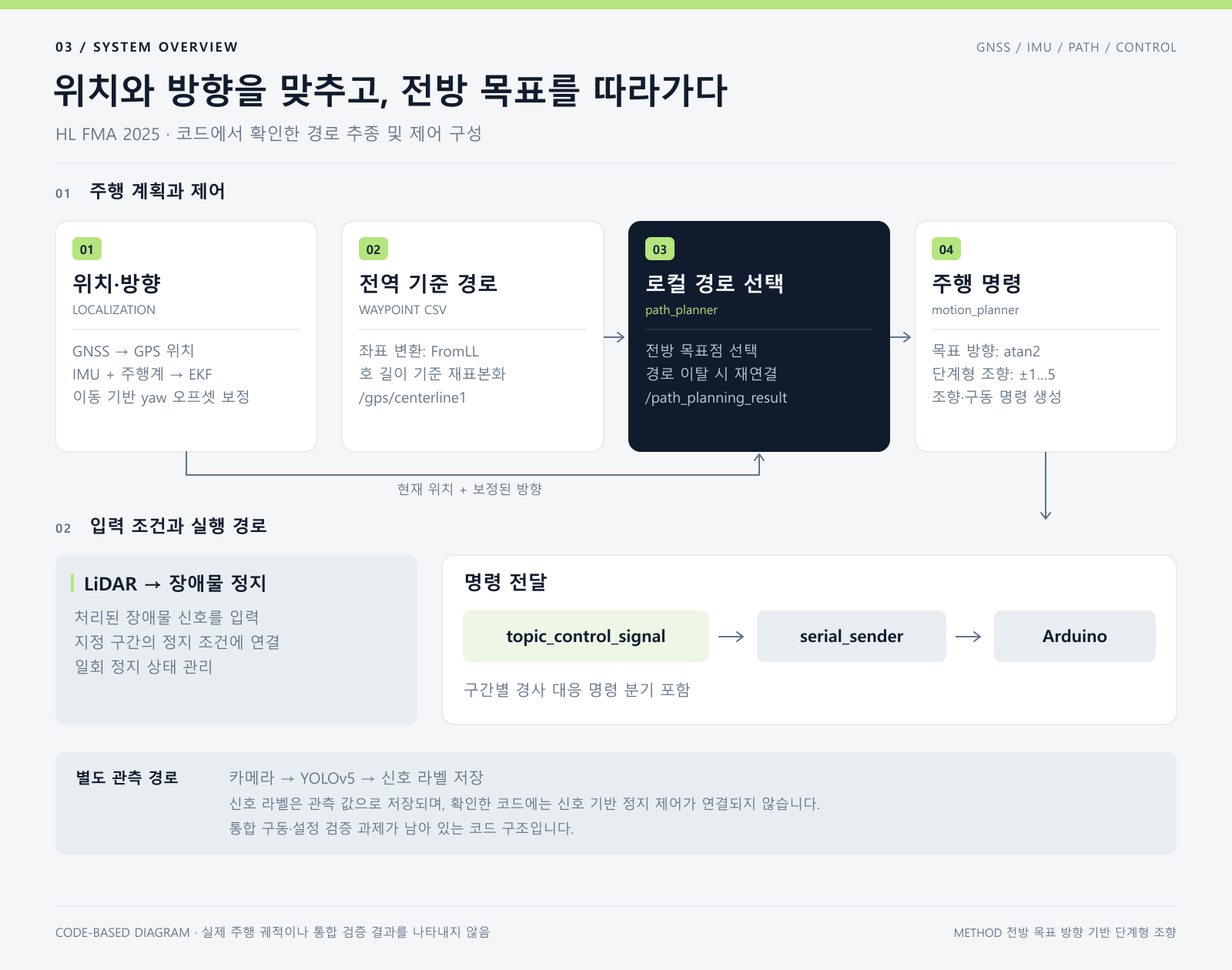
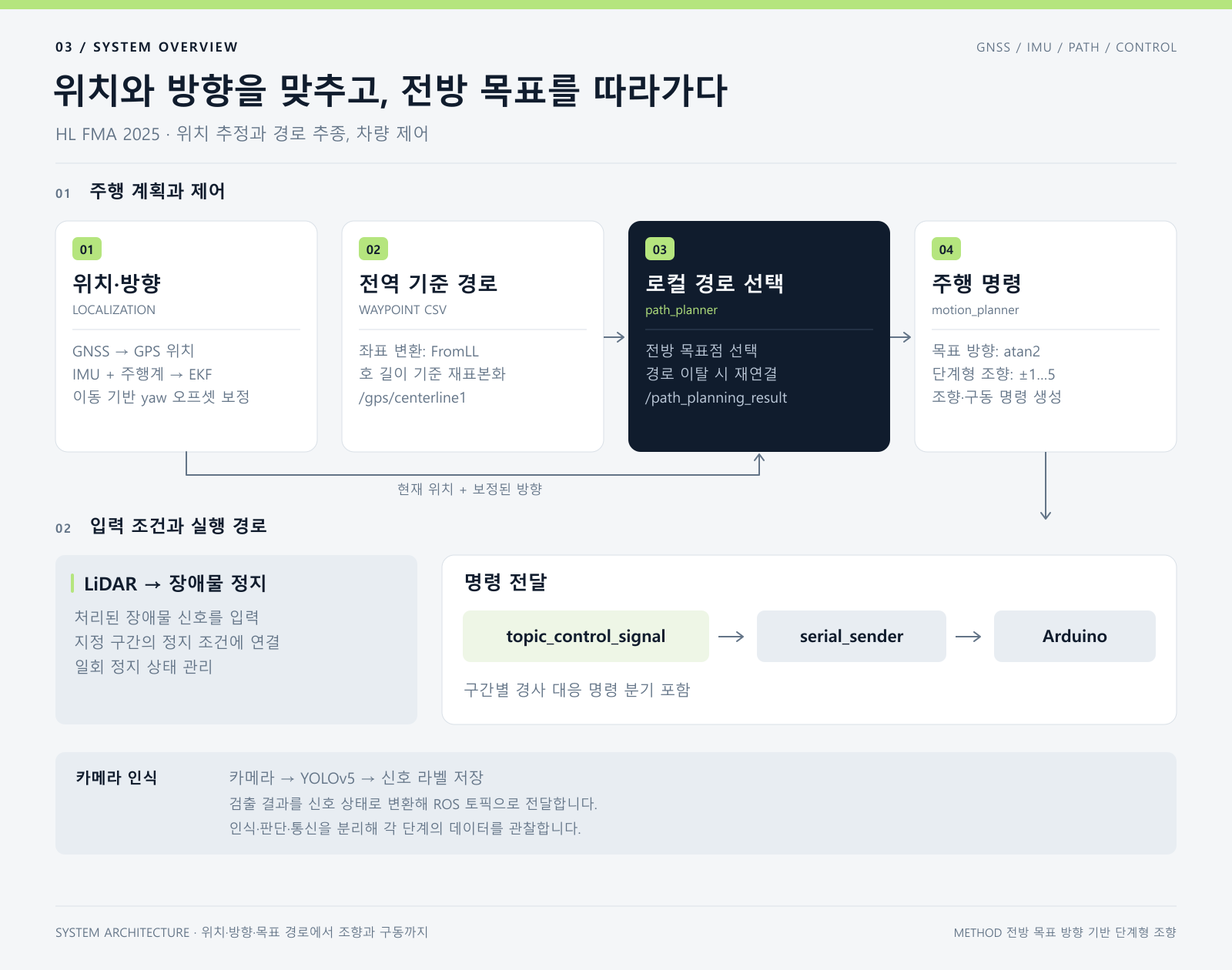
docs: focus portfolio copy and visuals on implementation and achievements

diff --git a/docs/development-notes.md b/docs/development-notes.md
@@ -1,18 +1,18 @@
 # 개발 과정과 문제 해결
 
-[프로젝트 소개](../README.md) · [공개 소스 안내](code-map.md) · [구현 버전과 검증 범위](technical-notes.md)
+[프로젝트 소개](../README.md) · [핵심 코드 안내](code-map.md) · [구현 구성과 설정](technical-notes.md)
 
-이 문서는 실차 개발 경험을 정리한 상세 기록과 공개 소스를 대조해 작성했습니다. 공개 링크로 확인할 수 있는 구현과 보관본에 설명된 확장을 구분합니다.
+차량 개조와 센서 통합을 시작으로, 초기 방향 보정·경로 추종·미션 처리·하위 제어를 연결한 개발 과정입니다.
 
 ## 1. 초기 방향 문제 · 1 m 이동을 초기화 절차로 만들기
 
-### 위치가 맞아도 방향이 어긋날 수 있었다
+### 위치와 방향의 기준을 함께 맞추기
 
-유아용 전동차를 개조하고 Ubuntu 노트북과 센서를 연결한 뒤, 지도 경로와 차량 방향의 기준을 통합하는 과정에서 초기 방향 문제가 있었습니다. 차량 기준 목표 경로를 만들려면 현재 위치뿐 아니라 지도에서 차량이 어느 방향을 향하는지도 필요합니다. yaw에 고정된 오차가 남으면 경로점의 상대 방향이 달라져 조향 판단에 영향을 줍니다.
+유아용 전동차를 개조하고 Ubuntu 노트북과 센서를 연결한 뒤, 지도 경로와 차량 방향의 기준을 통합했습니다. 차량 기준 목표 경로를 만들려면 현재 위치와 지도에서 차량이 향하는 방향이 모두 필요합니다. yaw에 고정된 오차가 남으면 경로점의 상대 방향이 달라져 조향 판단에 영향을 주었습니다.
 
-### 실제 이동을 기준으로 방향 오프셋을 계산했다
+### 실제 이동으로 방향 오프셋 계산
 
-경로계획기는 GPS 위치와 경로가 준비되면 시작 위치를 저장합니다. 시작점과 현재 위치의 직선거리가 1 m 미만인 동안 `(0, 0) → (0, 1)`의 차량 정면 경로를 내보냅니다. 기준을 넘으면 그때의 GPS 변위로 이동 방향을 구하고, EKF 방향과의 차이를 한 번 저장합니다.
+GPS 위치와 경로가 준비되면 경로계획기가 시작 위치를 저장합니다. 시작점과 현재 GPS 위치의 직선 변위가 1 m 미만인 동안 `(0, 0) → (0, 1)`의 차량 정면 경로를 내보냅니다. 기준을 넘으면 이동벡터로 방향을 구하고, EKF 방향과의 차이를 한 번 저장합니다.
 
 ```text
 이동 방향     = atan2(y₁ − y₀, x₁ − x₀)
@@ -20,84 +20,64 @@ yaw 오프셋    = 이동 방향 − 보정 시점의 EKF yaw
 이후 보정 yaw = 현재 EKF yaw + 고정한 오프셋
 ```
 
-공개 코드의 `_imu_yaw`는 `/odometry/filtered`의 quaternion에서 읽은 값입니다. 보정 대상은 **IMU 정보를 반영한 EKF 방향을 경로계획에 사용하는 기준**입니다. 원시 IMU 메시지나 전체 TF를 수정하는 절차는 아닙니다.
+공개 코드의 `_imu_yaw`는 `/odometry/filtered`의 quaternion에서 읽은 값입니다. 이 EKF 방향에 오프셋을 적용해, 실제 이동 방향을 기준으로 경로를 차량 좌표계로 변환했습니다.
 
-[공개 코드의 초기화 분기](https://github.com/Khusla/HLFMA_2025/blob/48406564072bd34c5d223b7e9fb8b05a2381fa11/src/decision_making_pkg/decision_making_pkg/path_planner_node.py#L219)
+[초기 방향 보정 코드](https://github.com/Khusla/HLFMA_2025/blob/48406564072bd34c5d223b7e9fb8b05a2381fa11/src/decision_making_pkg/decision_making_pkg/path_planner_node.py#L219)
 
-### 보관본에서는 초기화 상태를 구동 계층까지 전달했다
+### 초기화 상태를 구동 계층까지 전달
 
-상세 개발 기록의 실차 보관본에는 `correctioning` 상태를 경로 메시지로 전달하는 구현이 설명되어 있습니다. 초기 직진 중에는 구동 명령을 기본값 120에서 80으로 낮추고, 방향 정렬이 끝나면 일반 추종으로 전환하는 구성입니다. **80과 120은 구동 명령값이며 실측 속도가 아닙니다.** 공개 메시지 정의에도 상태 필드는 있지만, 공개 경로·동작계획 노드에서는 이 값을 보정 상태에 맞춰 전달하고 구동값에 적용하는 분기가 확인되지 않습니다.
+실차 개발 보관본에서는 `correctioning` 상태를 경로 메시지로 전달하도록 확장했습니다. 초기 직진 중에는 구동 명령을 기본값 120에서 80으로 낮추고, 방향 정렬이 끝나면 일반 추종으로 전환합니다. 방향 계산과 차량 동작을 같은 초기화 상태로 연결한 구성입니다.
 
-기록에는 노드 시작 후 일정 시간이 지나면 당시 yaw를 0 기준으로 삼는 다른 구현도 남아 있습니다. 이동벡터 방식은 지도에서 실제로 움직인 방향을 기준으로 얻는다는 차이가 있습니다. 보관 폴더 이름만으로 두 방식의 개발 순서나 변경 날짜를 확정하지는 않습니다.
+짧은 전진 동작을 초기화 절차에 포함함으로써 초기 방향 문제를 해결했습니다. 보정 yaw는 이후 경로 계산과 시각화에 함께 사용해 일관된 방향 기준을 유지했습니다.
 
-### 해결 경험과 정량 검증을 나누어 기록했다
+## 2. 좌표 통합 · 지도 경로에서 조향 부호까지 연결
 
-초기 방향 문제를 1 m 전진 방식으로 해결했다는 개발 경험과, 이를 수행하는 코드가 함께 남아 있습니다. 보정 전후 각도 오차나 반복 성공률을 기록한 실험표는 확보하지 못했습니다.
+### 경로와 현재 위치의 변환 기준 공유
 
-여기서 1 m는 시작점과 현재점의 **GPS 직선 변위 조건**입니다. 누적 바퀴 이동거리나 정확히 1.000 m에서 멈추는 제어를 뜻하지 않습니다. 두 끝점의 위치 오차와 실제 직진성이 방향 계산에 영향을 주므로, 이 값을 최적 보정거리나 정량적인 정확도 보장으로 표현하지 않습니다.
+CSV의 위도·경도 경로를 미터 단위의 평면 좌표로 변환했습니다. GNSS 위치 변환에 사용하는 `navsat_transform_node`의 `FromLL` 서비스를 경로에도 적용해 좌표 기준을 맞췄습니다. 변환한 점의 누적 길이를 구한 뒤, 기본 간격 0.30 m로 x·y를 선형 보간해 경로를 재샘플링합니다.
 
-## 2. 좌표 통합 · 지도 경로에서 조향 부호까지 기준 잇기
+[경로 로더](https://github.com/Khusla/HLFMA_2025/blob/48406564072bd34c5d223b7e9fb8b05a2381fa11/src/gps_path/gps_path/test_path_node1.py)
 
-### 경로와 현재 위치의 변환 기준을 공유했다
+### 차량 기준 축과 명령의 부호 연결
 
-CSV에는 위도·경도가 들어 있고, 경로계획은 미터 단위의 평면 좌표를 사용합니다. GNSS 위치 변환에 사용하는 `navsat_transform_node`의 `FromLL` 서비스로 CSV 경로도 변환해 기준을 공유하도록 구성했습니다. 변환한 점의 누적 길이를 구한 뒤, 같은 간격의 거리 좌표에서 x·y를 선형 보간합니다.
-
-이 구조에서 점 간격 0.30 m는 경로 재샘플링의 기본 설정입니다. 위치 측정 정확도나 실제 추종 오차가 0.30 m라는 의미는 아닙니다.
-
-[공개 경로 로더](https://github.com/Khusla/HLFMA_2025/blob/48406564072bd34c5d223b7e9fb8b05a2381fa11/src/gps_path/gps_path/test_path_node1.py)
-
-### 차량 기준 축과 명령의 부호를 연결했다
-
-현재 위치를 뺀 경로점의 상대변위를 `(dx, dy)`, 보정 방향을 `ψ`라고 하면, 공개 코드의 변환은 다음과 같습니다.
+현재 위치를 뺀 경로점의 상대변위를 `(dx, dy)`, 보정 방향을 `ψ`라고 하면 차량 좌표로의 변환은 다음과 같습니다.
 
 ```text
 x_local = sin(ψ) × dx − cos(ψ) × dy
 y_local = cos(ψ) × dx + sin(ψ) × dy
 ```
 
-이 프로젝트의 경로 메시지에서는 오른쪽이 +x, 전방이 +y입니다. 예를 들어 지도 +x 방향을 보고 있을 때, 지도상 전방 점 `(dx > 0, dy = 0)`은 차량 좌표 `(0, +y)`로 바뀝니다. 지도상 왼쪽 점은 음의 local x가 됩니다. 이 축 약속에 맞춰 제어 노드는 `atan2(x_target, y_target)`로 상대 목표 방향을 계산합니다.
+경로 메시지의 축은 **오른쪽 +x, 전방 +y**로 정의했습니다. 지도 +x 방향을 보고 있을 때 전방 점 `(dx > 0, dy = 0)`은 차량 좌표 `(0, +y)`로 바뀌고, 왼쪽 점은 음의 local x가 됩니다. 이 규약에 맞춰 제어 노드가 `atan2(x_target, y_target)`로 상대 목표 방향을 계산합니다.
 
-상위 조향은 좌우 1~5단계와 중앙 0으로 나뉩니다. 보관된 Arduino 제어 기록에서는 이 단계가 포텐시오미터 목표값으로 매핑되고, 현재 조향 위치와의 오차에 따라 모터를 움직입니다. 지도 좌표, 차량 기준 축, 조향 단계, 하위 구동 부호를 함께 맞춰야 하는 구조입니다.
+상위 조향은 좌우 1~5단계와 중앙 0으로 나뉩니다. Arduino 제어에서는 각 단계를 포텐시오미터 목표값으로 매핑하고, 현재 조향 위치와의 오차에 따라 모터를 구동했습니다. 지도 좌표, 차량 기준 축, 조향 단계, 하위 구동 부호를 이어 차량의 실제 움직임으로 연결했습니다.
 
 [차량 기준 좌표 변환](https://github.com/Khusla/HLFMA_2025/blob/48406564072bd34c5d223b7e9fb8b05a2381fa11/src/decision_making_pkg/decision_making_pkg/path_planner_node.py#L408) · [목표 방향과 단계 조향](https://github.com/Khusla/HLFMA_2025/blob/48406564072bd34c5d223b7e9fb8b05a2381fa11/src/decision_making_pkg/decision_making_pkg/motion_planner_node.py#L283)
 
-## 3. 디버깅 · 계산한 방향과 목표 경로를 함께 관측하기
+## 3. 디버깅 · 계산한 방향과 목표 경로 함께 관측
 
-방향 보정이 주행 계산에 사용되면, 시각화도 같은 보정 방향을 받아야 상태를 해석하기 쉽습니다. 경로계획기는 `/path_planner/yaw_corrected`를 발행하고, 시각화 노드는 GPS 위치와 이 방향을 받아 현재 자세·방향 화살표·전방 경로를 구성합니다.
+경로계획기가 사용하는 보정 yaw를 `/path_planner/yaw_corrected`로 발행했습니다. 시각화 노드는 GPS 위치와 보정 방향을 받아 현재 자세, 방향 화살표, 전방 경로를 구성합니다. 제어 판단에 사용한 방향과 경로를 같은 화면에서 살펴볼 수 있도록 만들었습니다.
 
-| 관측 출력 | 확인하려는 내용 |
+| 관측 출력 | 내용 |
 |---|---|
 | `/pp/current_pose` | 현재 위치와 보정 방향 |
 | `/pp/current_heading` | 차량이 바라보는 방향의 화살표 |
-| `/pp/preview_path` | 차량 기준 경로를 지도 주변 좌표로 되돌린 모습 |
+| `/pp/preview_path` | 차량 기준 경로를 지도 주변 좌표로 변환한 미리보기 |
 | 경로계획 CSV 로그 | 경유점 인덱스, 횡편차, 방향 오차, 목표점 거리, 복구 이벤트 |
 
-이 표는 계산 상태를 확인할 수 있도록 만든 도구와 출력입니다. 당시의 모든 시험이 통과했다는 기록을 의미하지는 않습니다. 특히 표시 프레임과 계산 프레임을 함께 확인해야 합니다. 시각화에서 위치에 TF 변환을 적용하더라도 별도로 받은 yaw에 프레임 간 회전이 자동 반영되는 것은 아닙니다.
+[시각화 코드](https://github.com/Khusla/HLFMA_2025/blob/48406564072bd34c5d223b7e9fb8b05a2381fa11/src/debug_pkg/debug_pkg/gps_path_visualizer_node.py) · [경로계획 로그](https://github.com/Khusla/HLFMA_2025/blob/48406564072bd34c5d223b7e9fb8b05a2381fa11/src/decision_making_pkg/decision_making_pkg/path_planner_node.py#L123)
 
-[시각화 코드](https://github.com/Khusla/HLFMA_2025/blob/48406564072bd34c5d223b7e9fb8b05a2381fa11/src/debug_pkg/debug_pkg/gps_path_visualizer_node.py) · [경로계획 로그 항목](https://github.com/Khusla/HLFMA_2025/blob/48406564072bd34c5d223b7e9fb8b05a2381fa11/src/decision_making_pkg/decision_making_pkg/path_planner_node.py#L123)
+## 4. 실차 미션과 하위 제어 확장
 
-## 4. 보관본에 남아 있는 확장 구현
+실차 개발 보관본에서는 기본 경로 추종을 미션별 상태 전환과 하위 제어로 확장했습니다. 공개 코드와의 구성별 대응은 [구현 구성과 설정](technical-notes.md)에 정리했습니다.
 
-다음 내용은 상세 개발 기록이 분석한 실차·시뮬레이션 보관본을 요약한 것입니다. 공개 커밋에서 모두 확인되는 기능 목록과는 다릅니다.
+| 개발 과제 | 구현 |
+|---|---|
+| 구간별 경로와 진행 방향 관리 | 일반·대안 경로를 나누고, 경로 말단에서 대기·경로 선택·전진/후진 전환 |
+| 신호등 인식과 위치 조건 연결 | 지정 신호등 지점의 반경 안에서 빨강·노랑 검출 시 구동 명령을 0으로 변경 |
+| 후진 전환 시 명령 변화 조절 | 직전 목표 유지 시간, 조향 단계 변화 제한, 별도 후진 구동값 적용 |
+| 조향 단계를 기구 위치로 전달 | 포텐시오미터 목표와 현재값의 오차에 따라 Arduino가 조향 모터 구동 |
+| 가상 환경에서 센서와 제어 흐름 구성 | Gazebo HENES 모델, 가상 GNSS, ROS 센서·명령 브리지, 경로 미리보기 연결 |
 
-| 다룬 문제 | 보관 기록의 구현 | 결과를 해석할 때의 범위 |
-|---|---|---|
-| 구간마다 경로와 진행 방향이 달라짐 | 일반 경로와 대안 경로를 나누고, 말단에서 대기·경로 선택·전진/후진 상태 전환 | 코드의 상태 전이 기록. 대회 미션별 성공률은 별도 자료 없음 |
-| 카메라에 보이는 신호를 위치 조건과 연결 | 지정 신호등 지점의 반경 안에서 빨강·노랑이면 구동 명령을 0으로 변경 | 초록 확인 후에만 출발하는 로직으로 일반화하지 않음 |
-| 후진 전환 시 명령이 갑자기 바뀔 수 있음 | 직전 목표 유지 시간, 조향 단계 변화 제한, 별도 후진 구동값 | 완전한 안정화가 검증되었다는 뜻은 아님 |
-| 단계 조향을 실제 기구 위치로 전달 | Arduino에서 포텐시오미터 목표와 현재값의 오차에 따라 조향 모터 출력 | 조향 위치 피드백. 차량 속도 피드백·PID 성능과 구분 |
-| 실차형 입력을 가상 환경에서 관찰 | Gazebo HENES 모델, 가상 GNSS, ROS 센서·명령 브리지, 경로 미리보기 | 시뮬레이션 구성 기록. 실차와의 추종 오차 비교 결과는 미확인 |
-| 데이터 형식과 경로 형상 확인 | 위도·경도 열과 구분자 차이를 확인하고 저장점을 상대 좌표로 표시 | 저장 경로의 분석이며 실제 차량 궤적은 아님 |
+## 프로젝트 성과
 
-### 저장 경로를 읽어 확인한 것
-
-상세 기록의 데이터 분석에서는 `c1.csv`에 유효 좌표 201개, `real1.csv`에 215개가 있으며 처음 110개 점이 같은 순서로 일치한다고 정리되어 있습니다. 이 결과는 큰 경로와 일부 구간이 바뀐 경로를 비교하는 근거입니다. 실제 주행거리·완주 횟수·추종 정확도를 나타내지는 않습니다. 이번 포트폴리오 정리에서는 해당 보관 원본을 다시 계산한 결과로 제시하지 않습니다.
-
-일부 파일은 탭과 쉼표가 섞여 있고, 헤더 이름과 전체 행을 감싼 따옴표도 달랐습니다. 따라서 좌표 기준을 맞추기 전에 입력 형식과 위도·경도 열을 확인해야 한다는 점이 기록에서 드러납니다. 독립 분석에서 읽어 낸 좌표 수와 당시 경로 로더가 정상 처리한 행 수는 구분했습니다.
-
-## 확인된 성과와 남아 있는 자료
-
-장려상 수상, 차량 개조와 노트북 탑재, 초기 방향 문제를 이동벡터로 해결한 경험을 중심으로 프로젝트를 설명합니다. 공개 소스는 방향 보정·경로 변환·명령 생성·관측 출력의 구체적인 구현을 뒷받침하고, 상세 기록은 보관본의 미션 처리·하위 제어·시뮬레이션 구성을 보완합니다.
-
-주행 시간, 반복 완주율, 경로 오차 RMSE, RTK 고정해 유지율, 신호등 인식 정확도는 현재 확보한 근거로 수치화하지 않았습니다. 기록에 적힌 타이머·거리·명령값과 저장 데이터 분석값은 각각의 의미로만 사용합니다.
-
+HENES-T870 차량 개조부터 센서 통합, 초기 방향 보정, 경로계획, 조향·구동 명령, Arduino 하위 제어까지 자율주행 시스템의 흐름을 연결했습니다. 실제 이동벡터를 이용해 초기 방향 문제를 해결하고, 미션별 상태 전환과 시각화 도구를 개발했습니다. **HL FMA 2025 자율주행 경진대회에서 장려상을 수상했습니다.**

diff --git a/docs/technical-notes.md b/docs/technical-notes.md
@@ -1,57 +1,55 @@
-# 구현 버전과 검증 범위
+# 구현 구성과 설정
 
 [프로젝트 소개](../README.md) · [개발 과정과 문제 해결](development-notes.md)
 
-프로젝트 소개는 공개 GitHub 소스와 실차 개발을 정리한 상세 기록을 함께 사용합니다. 공개 소스는 [2025년 9월 20일 커밋](https://github.com/Khusla/HLFMA_2025/tree/48406564072bd34c5d223b7e9fb8b05a2381fa11)을 기준으로 읽었습니다. 상세 기록은 여러 실차·시뮬레이션 작업공간을 분석한 자료이며, 일부 구현은 공개 커밋과 다릅니다. 이번 포트폴리오 정리에서 장비를 연결해 빌드하거나 주행을 재현하지는 않았습니다.
+센서 입력, 좌표 변환, 경로계획, 차량 제어를 연결하는 주요 구성과 설정을 정리했습니다. 코드 링크는 [2025년 9월 20일 공개 커밋](https://github.com/Khusla/HLFMA_2025/tree/48406564072bd34c5d223b7e9fb8b05a2381fa11)을 기준으로 하며, 미션 확장과 하위 제어는 실차 개발 보관본을 함께 소개합니다.
 
-## 공개 코드와 보관 기록의 차이
+## 공개 코드와 실차 개발 구성
 
-| 항목 | 공개 커밋에서 확인 | 상세 기록의 실차 보관본 설명 |
+| 항목 | 공개 코드 | 실차 개발 보관본 |
 |---|---|---|
-| 초기 방향 보정 | GPS 변위 1 m, 직진 경로, EKF yaw 오프셋 | 같은 원리에 `correctioning` 상태 전달과 보정 중 구동값 변경이 연결됨 |
-| 경로 | `/gps/centerline1`을 받아 전방 경로 계산 | 여러 일반·대안 경로, 말단 대기, 전진·후진 전환 |
-| 카메라 | YOLOv5 노드와 `detections_v5` | YOLOv8 API 기반 노드와 `detections_v8`; 실제 사용 가중치 계열은 별도 확인 필요 |
-| 신호등 | 상태 발행·구독·저장. 활성 구동 명령에 적용하는 분기 없음 | 지정 위치 반경 안에서 Red·Yellow 상태에 정지 명령 적용 |
-| LiDAR 전방 검출 | 거리 상한 2 m, 연속 검출 5회, 0° 경계 구간 처리 점검 필요 | 거리 상한 3 m, 연속 검출 3회, 0° 경계 분리 판정 및 좌·우 검출기 설명 |
-| 하위 제어 | 시리얼 명령 송신 | 별도 Arduino 펌웨어의 구동 PWM·포텐시오미터 조향 피드백 설명 |
-| 시뮬레이션 | 현재 공개 트리의 주된 범위가 아님 | Gazebo 차량 모델, 가상 센서, 브리지·위치 추정 설정 분석 |
+| 초기 방향 보정 | GPS 변위 1 m, 직진 경로, EKF yaw 오프셋 | `correctioning` 상태를 전달하고 보정 중 구동 명령을 조정 |
+| 경로 | `/gps/centerline1`을 받아 전방 경로 계산 | 일반·대안 경로 선택, 경로 말단 대기, 전진·후진 전환 |
+| 카메라 | YOLOv5 노드와 `detections_v5` 상태 처리 | YOLOv8 API 기반 노드와 `detections_v8` 상태 처리 |
+| 신호등 | 신호등 상태 발행·구독 | 지정 위치 반경 안에서 Red·Yellow 상태에 정지 명령 적용 |
+| LiDAR 전방 검출 | 거리 상한 2 m, 연속 검출 5회 | 거리 상한 3 m, 연속 검출 3회, 0° 경계 분리 판정 및 좌·우 검출기 |
+| 하위 제어 | 시리얼 차량 명령 송신 | Arduino 구동 PWM과 포텐시오미터 기반 조향 위치 피드백 |
+| 시뮬레이션 | ROS 노드 중심 구성 | Gazebo 차량 모델, 가상 센서, ROS 브리지와 위치 추정 설정 |
 
-표의 수치는 **설정·조건·명령값**입니다. 폴더명이나 기록 시각만으로 최종 대회 사용 버전과 변경 순서를 확정하지 않습니다. 특히 공개 커밋의 누락 기능이나 실행 점검 항목을 프로젝트 전체의 미구현 상태로 일반화하지 않습니다.
+## 위치와 방향의 역할
 
-공개 `PathPlanningResult.msg`에도 `correctioning`과 `reverse` 필드는 정의되어 있습니다. 필드가 있다는 사실과 해당 노드가 상태를 발행·처리한다는 사실은 구분합니다.
+GNSS 위치는 `navsat_transform_node`를 통해 평면 좌표로 변환합니다. CSV 경로도 같은 노드의 `FromLL` 서비스를 사용해 차량 위치와 같은 좌표 기준으로 옮깁니다.
 
-## 공통 구조를 읽는 기준
+EKF는 오도메트리 속도와 IMU 방향·회전 정보를 입력으로 사용합니다. 경로계획기는 GNSS 변환 위치와 EKF 방향을 받아 차량 기준 경로를 생성합니다. 출발 시에는 실제 GPS 이동 방향과 EKF yaw의 차이를 구해 경로계획에 적용할 방향 오프셋을 설정합니다.
 
-- 실차 중심 EKF 설정은 오도메트리 속도와 IMU 방향·회전 정보를 입력으로 사용합니다. 경로계획은 GNSS 변환 위치와 EKF 방향을 별도로 받습니다. 오도메트리 입력 코드의 존재만으로 실차 엔코더 운용이 검증된 것은 아닙니다.
-- 초기 yaw 오프셋은 경로계획기와 별도 디버그 출력에 적용합니다. 원시 IMU·EKF 상태·navsat·TF 전체를 교정하는 절차가 아닙니다.
-- 경로 제어는 목표점 방향에 따른 단계 조향입니다. 전방 경로점 선택과 곡률식 기반 Pure Pursuit 제어기는 구분합니다.
-- LiDAR 정지는 지정 구간의 세션당 한 번 발동하는 상태 로직입니다. 전 구간 상시 충돌회피로 설명하지 않습니다.
-- 명령값과 실제 속도, 설정 주기와 측정 FPS, 경로점 연결 길이와 실제 주행거리를 구분합니다.
+| 설정·규약 | 값과 용도 |
+|---|---|
+| 초기 방향 정렬 | 시작점과 현재 GPS 위치의 직선 변위가 1 m에 도달하면 방향 오프셋 계산 |
+| 경로 재샘플링 | 기본 간격 0.30 m로 경로점을 선형 보간 |
+| 차량 기준 경로 축 | 오른쪽 +x, 전방 +y |
+| 목표 방향 | `atan2(x_target, y_target)` |
+| 조향 명령 | 중앙 0, 좌우 1~5단계 |
+| 보정 방향 출력 | `/path_planner/yaw_corrected` |
 
-## 근거가 뒷받침하는 범위
+## 경로에서 차량 명령까지
 
-| 근거 | 확인할 수 있는 내용 | 그 근거만으로 확정하지 않는 내용 |
-|---|---|---|
-| 프로젝트·수상 기록 | 차량 개조 경험, 초기 방향 문제 해결 경험, 장려상 수상 | 기능별 실주행 성공률 |
-| 공개 소스 검토 | 조건 분기, 토픽·메시지, 계산식, 설정값 | 장비가 연결된 최종 실행 결과 |
-| 보관 자료의 상세 분석 | 실차 확장·Arduino·시뮬레이션 구성과 버전 차이 | 해당 구현 모두가 대회에서 사용되었다는 주장 |
-| 저장 경로 분석 기록 | 좌표점 수, 형상, 파일 간 공통점, 형식 차이 | 실제 추종 궤적·완주거리·차량 위치 정확도 |
-| 점검용 노드와 로그 코드 | 관측할 수 있도록 구성한 데이터 | 실제로 보관된 실험 로그나 시험 통과 결과 |
+경로계획기는 경유점 통과와 횡방향 이탈을 관리하면서 전방 목표점을 선택합니다. 동작계획기는 목표점 방향을 조향 단계로 바꾸고, 구간별 주행 조건을 적용해 구동 명령을 생성합니다.
 
-## 공개 커밋을 재현할 때 확인할 구성
+```text
+s{조향 단계} f{전륜 구동 명령} r{후륜 구동 명령}
+```
 
-아래는 링크한 공개 커밋의 정적 점검 사항입니다. 대회 당시 실제로 발생한 장애 목록이나 보관본 전체에 적용되는 결론이 아닙니다.
+실차 보관본은 초기 방향 정렬 중 구동 명령을 80으로 설정하고, 정렬이 끝나면 기본 명령 120으로 전환합니다. 경로 진행 방향은 `reverse`, 초기화 상태는 `correctioning` 필드로 전달합니다. Arduino는 조향 단계를 포텐시오미터 목표값으로 매핑하고, 현재 위치와의 오차에 따라 조향 모터를 구동합니다.
 
-| 항목 | 공개 커밋의 상태 | 필요한 확인 |
-|---|---|---|
-| 환경 | 설치 스크립트가 ROS 2 Humble 패키지를 사용 | 실제 운영체제·드라이버·Python 패키지 조합 |
-| LiDAR 발행 | `LPFL` 이름을 사용하지만 대응 별칭 정의가 없음 | import 및 모듈 참조 수정 후 장비 검증 |
-| LiDAR 각도 범위 | 340°~20° 설정과 index 교환 로직 | 0°를 지나는 검출 구간 처리 |
-| 경로 launch | 노드 1~5를 선언하나 노드 2~5 및 해당 CSV가 현재 트리에 없음 | 실제 사용하는 노드·경로로 실행 구성 정리 |
-| LiDAR launch 설치 | 패키지 `setup.py`에 launch 파일 설치 항목 없음 | 설치 후 launch 탐색 경로 |
-| 시리얼 장치 | 오도메트리 수신·명령 송신 기본 장치는 같고 통신 속도는 다름 | 실제 장치 배치·통신 속도·접근 방식 |
-| 통합 실행 | 위치 관련 launch와 개별 노드가 분리됨 | 최종 사용 노드 집합과 시작 순서 |
-| 데이터 경로 | 개발 환경의 절대 경로가 포함됨 | CSV·로그·모델 경로 설정 |
+## 구간별 미션 처리
 
-초기 보정에는 GPS 품질·위치 점프·EKF yaw 수신 여부·입력 시각의 정합성을 별도로 검증할 여지가 있습니다. 이러한 후속 점검을 이미 수행한 개선 결과로 소개하지는 않습니다.
+- **신호등:** 지정한 신호등 위치의 반경과 카메라 검출 상태를 함께 사용해 Red·Yellow 정지 조건을 적용합니다.
+- **LiDAR:** 거리·각도 범위와 연속 검출 횟수로 장애물 조건을 판정합니다. 지정 구간의 정지 미션은 상태 플래그로 처리합니다.
+- **경로 전환:** 경로 끝에서 대기한 후 일반·대안 경로를 선택하고 전진·후진 상태를 전환합니다.
+- **후진 제어:** 목표 유지 시간, 조향 단계 변화 제한, 후진 구동값을 별도로 적용합니다.
 
+## 개발 환경 구성
+
+실차 환경은 ROS 2 Humble, Python, 사용자 정의 메시지, GNSS·IMU·LiDAR·카메라 입력과 Arduino 시리얼 통신으로 구성했습니다. 실행 환경을 옮길 때에는 센서 장치명과 통신 속도, 경로 CSV·모델 파일 위치를 해당 차량의 구성에 맞게 설정합니다.
+
+경로를 준비할 때에는 위도·경도 열 이름과 구분자를 맞춘 뒤 좌표 변환과 재샘플링을 적용합니다. RViz에서는 현재 위치, 보정 방향, 전방 경로를 함께 표시해 센서·경로·제어 상태를 살펴볼 수 있습니다.

diff --git a/assets/README.md b/assets/README.md
@@ -1,11 +1,9 @@
 # Visual assets
 
-- `hero.svg` / `hero.png`: 프로젝트 소개용 개념 이미지
-- `architecture.svg` / `architecture.png`: 코드에서 확인한 처리 구조
-- `startup-alignment.png`: 제공된 상세 개발 기록의 초기 방향 정렬 도식
+| 파일 | 내용 |
+|---|---|
+| `hero.svg` / `hero.png` | 프로젝트 대표 이미지 |
+| `architecture.svg` / `architecture.png` | 공개 코드의 센서 입력·경로계획·차량 제어 구조도 |
+| `startup-alignment.svg` / `startup-alignment.png` | GPS 이동벡터 기반 초기 방향 정렬 도식 |
 
-`hero`와 `architecture`의 도형·레이아웃은 이 포트폴리오를 위해 제작한 벡터 그래픽입니다. `architecture`는 공개된 2025년 9월 20일 커밋의 구성을 설명합니다. 외부 사진이나 생성된 하드웨어 사진은 포함하지 않습니다. 경로 모양, 격자 활성 패턴, 노드 배치는 설명용이며 실제 영상·주행 기록·실험 결과가 아닙니다.
-
-`startup-alignment.png`는 개발 기록에 포함된 도식을 사용했습니다. 공개 코드와도 일치하는 GPS 이동벡터 기반 방향 보정 절차를 설명합니다. 그림의 각도 예는 가상의 계산 예이며 측정값이 아닙니다. GPS 변위 1 m와 누적 바퀴 이동거리를 구분합니다.
-
-`hero`와 `architecture`는 수정 가능한 SVG와 표시용 PNG를 함께 제공합니다. 해당 SVG의 폰트는 Malgun Gothic / Segoe UI / Arial 계열을 사용합니다.
+세 도식은 이 포트폴리오를 위해 제작했습니다. 편집용 SVG와 표시용 PNG를 함께 제공하며, SVG는 Malgun Gothic / Segoe UI / Arial 계열 폰트를 사용합니다.

diff --git a/docs/code-map.md b/docs/code-map.md
@@ -4,7 +4,7 @@
 
 기준 커밋: `48406564072bd34c5d223b7e9fb8b05a2381fa11` · 2025년 9월 20일
 
-아래 링크는 공개 소스의 해당 시점으로 고정되어 있습니다. 상세 개발 기록이 설명하는 다중 경로·신호등 제어·Arduino·시뮬레이션 보관본과의 차이는 [구현 버전과 검증 범위](technical-notes.md)에 정리했습니다.
+아래 링크에서 방향 보정, 좌표 변환, 센서 처리와 명령 생성의 구현을 살펴볼 수 있습니다. 실차 개발의 미션 확장과 하위 제어는 [구현 구성과 설정](technical-notes.md)에 함께 정리했습니다.
 
 | 확인할 내용 | 원본 코드 |
 |---|---|
@@ -18,4 +18,4 @@
 | 명령 시리얼 송신 | [serial_sender_node.py](https://github.com/Khusla/HLFMA_2025/blob/48406564072bd34c5d223b7e9fb8b05a2381fa11/src/serial_communication_pkg/serial_communication_pkg/serial_sender_node.py) |
 | 보정 방향과 경로 시각화 | [gps_path_visualizer_node.py](https://github.com/Khusla/HLFMA_2025/blob/48406564072bd34c5d223b7e9fb8b05a2381fa11/src/debug_pkg/debug_pkg/gps_path_visualizer_node.py) |
 
-공개된 팀 소스는 [KHUsla 원본 저장소](https://github.com/Khusla/HLFMA_2025)에 있습니다. 이 포트폴리오에는 전체 코드·모델·데이터셋을 복제하지 않았으며, 원본의 권리·라이선스 조건은 해당 프로젝트 자료를 따릅니다.
+전체 팀 소스는 [KHUsla 원본 저장소](https://github.com/Khusla/HLFMA_2025)에서 볼 수 있습니다.
